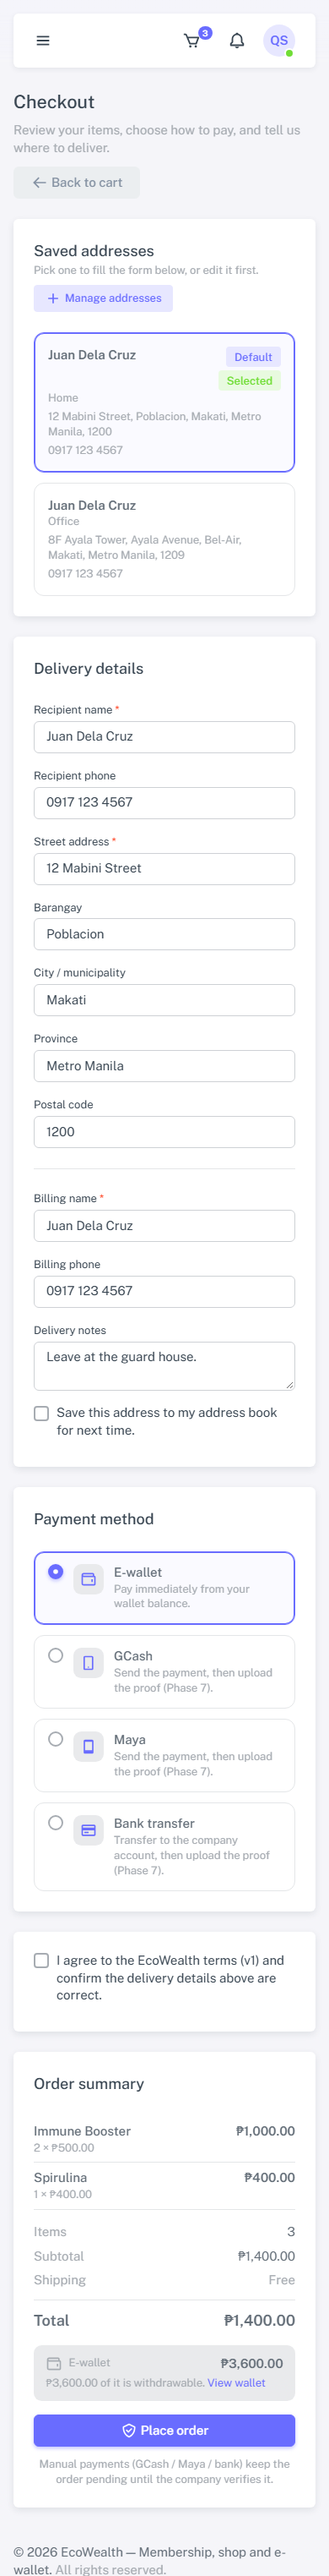
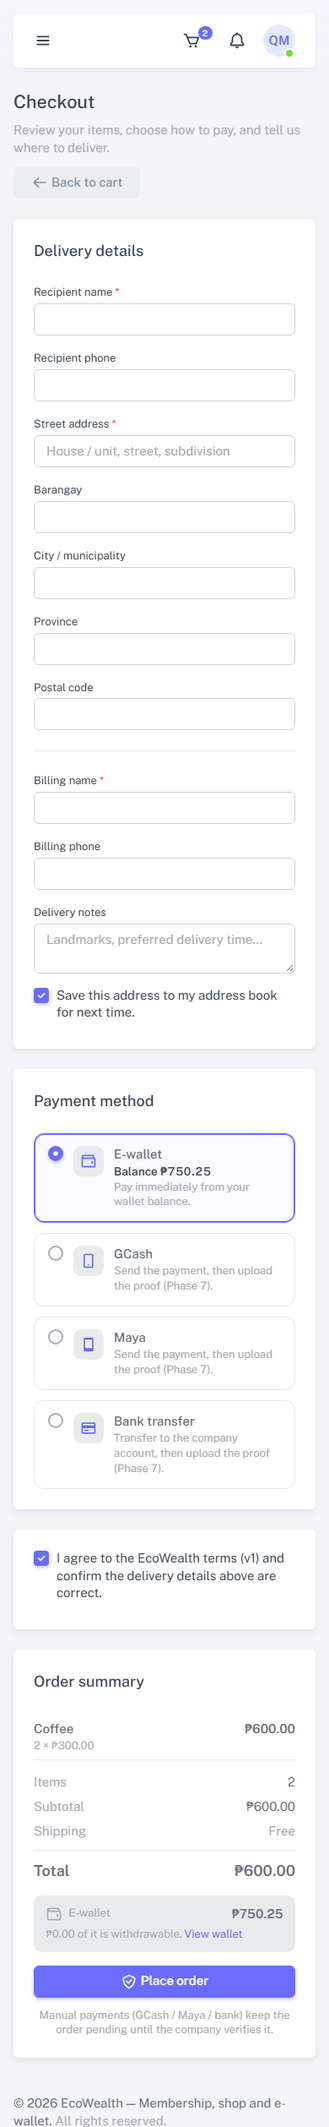
checkout: pre-tick terms, gate Place order, show e-wallet balance

diff --git a/system/public/assets/js/app-checkout.js b/system/public/assets/js/app-checkout.js
@@ -1,0 +1,32 @@
+/**
+ * EcoWealth — checkout behaviour (Phase 6)
+ * -------------------------------------------------
+ * The terms checkbox gates the Place order button, so a member cannot
+ * click a submit that the server would refuse. The server validation
+ * stays the source of truth; this is only the immediate visual gate.
+ */
+(function () {
+  'use strict';
+
+  var terms = document.getElementById('terms');
+  var button = document.getElementById('placeOrder');
+  var hint = document.querySelector('[data-terms-hint]');
+
+  if (!terms || !button) {
+    return;
+  }
+
+  function sync() {
+    var accepted = terms.checked;
+
+    button.disabled = !accepted;
+    button.setAttribute('aria-disabled', accepted ? 'false' : 'true');
+
+    if (hint) {
+      hint.classList.toggle('d-none', accepted);
+    }
+  }
+
+  terms.addEventListener('change', sync);
+  sync();
+})();

diff --git a/system/public/assets/css/orders.css b/system/public/assets/css/orders.css
@@ -96,6 +96,22 @@
   min-width: 0;
 }
 
+.checkout-payment-balance {
+  display: block;
+  font-size: 0.85rem;
+  font-weight: 600;
+  color: var(--bs-heading-color);
+  font-variant-numeric: tabular-nums;
+}
+
+.checkout-payment-balance.is-short {
+  color: var(--bs-danger);
+}
+
+.checkout-terms-hint {
+  color: var(--bs-danger);
+}
+
 /* ---------- Checkout summary ---------- */
 .checkout-summary {
   position: sticky;

diff --git a/system/tests/Cases/OrderViewTest.php b/system/tests/Cases/OrderViewTest.php
@@ -39,6 +39,13 @@ $sidebar = static function (string $html): string {
     return $end === false ? '' : substr($html, $start, $end - $start);
 };
 
+/** The opening tag of an element with the given id (for attribute checks). */
+$tag = static function (string $html, string $id, string $element = 'input'): string {
+    $pattern = '/<' . $element . '\b[^>]*\bid="' . preg_quote($id, '/') . '"[^>]*>/';
+
+    return preg_match($pattern, $html, $matches) === 1 ? $matches[0] : '';
+};
+
 $makeProduct = static function (array $overrides = []): int {
     return Product::save($overrides + [
         'name'   => 'Checkout Product ' . bin2hex(random_bytes(3)),
@@ -84,7 +91,7 @@ $placeOrder = static function (array $member, int $productId, int $quantity, arr
 };
 
 return [
-    'P6-T1 the checkout page carries items, payments, terms and the key' => function () use ($render, $makeProduct, $makeMember, $input): void {
+    'P6-T1 the checkout page carries items, payments, terms and the key' => function () use ($render, $tag, $makeProduct, $makeMember, $input): void {
         $member  = $makeMember();
         $userId  = (int) $member['id'];
         $product = $makeProduct(['name' => 'Checkout Coffee', 'price' => '300.00']);
@@ -107,6 +114,8 @@ return [
         $html  = $render('member', 'shop/checkout', [
             'page_title'      => 'Checkout',
             'current_nav'     => 'cart',
+            'page_css'        => ['assets/css/shop.css', 'assets/css/orders.css'],
+            'page_js'         => ['assets/js/app-checkout.js'],
             'state'           => $state,
             'addresses'       => $book->forUser($userId),
             'selected'        => $book->defaultFor($userId),
@@ -124,7 +133,7 @@ return [
             ],
             'wallet'          => ['balance' => 1000.0, 'withdrawable' => 1000.0],
             'payment_methods' => [
-                'ewallet' => ['label' => 'E-wallet', 'icon' => 'bx-wallet', 'hint' => 'Pay immediately from your wallet balance.', 'available' => true],
+                'ewallet' => ['label' => 'E-wallet', 'icon' => 'bx-wallet', 'balance' => 1000.0, 'hint' => 'Pay immediately from your wallet balance.', 'available' => true],
                 'gcash'   => ['label' => 'GCash', 'icon' => 'bx-mobile-alt', 'hint' => 'Send the payment, then upload the proof (Phase 7).', 'available' => true],
                 'maya'    => ['label' => 'Maya', 'icon' => 'bx-mobile', 'hint' => 'Send the payment, then upload the proof (Phase 7).', 'available' => true],
                 'bank'    => ['label' => 'Bank transfer', 'icon' => 'bx-building-bank', 'hint' => 'Transfer to the company account.', 'available' => true],
@@ -154,6 +163,16 @@ return [
         assert_contains('name="idempotency_key"', $html);
         assert_contains('value="checkout-key-123"', $html);
         assert_contains('name="save_address"', $html);
+        assert_contains('data-wallet-balance', $html, 'the e-wallet option shows the balance');
+        assert_contains(money(1000), $html);
+        assert_contains('app-checkout.js', $html);
+        assert_contains('checked', $tag($html, 'terms'), 'the terms start ticked');
+
+        $placeOrder = $tag($html, 'placeOrder', 'button');
+        assert_true($placeOrder !== '', 'the Place order button must render');
+        assert_not_contains('disabled', $placeOrder, 'the button starts enabled');
+
+        assert_contains('data-terms-hint', $html);
         assert_contains('Place order', $html);
         assert_contains('action="' . url('checkout') . '"', $html);
     },
@@ -170,6 +189,8 @@ return [
         $html  = $render('member', 'shop/checkout', [
             'page_title'      => 'Checkout',
             'current_nav'     => 'cart',
+            'page_css'        => ['assets/css/shop.css', 'assets/css/orders.css'],
+            'page_js'         => ['assets/js/app-checkout.js'],
             'state'           => $state,
             'addresses'       => [],
             'selected'        => null,
@@ -181,7 +202,7 @@ return [
             ],
             'wallet'          => ['balance' => 50.0, 'withdrawable' => 0.0],
             'payment_methods' => [
-                'ewallet' => ['label' => 'E-wallet', 'icon' => 'bx-wallet', 'hint' => 'Your balance is ' . money(50) . ' — not enough for ' . money(300) . '.', 'available' => false],
+                'ewallet' => ['label' => 'E-wallet', 'icon' => 'bx-wallet', 'balance' => 50.0, 'hint' => 'Not enough for this order — choose another method or top up.', 'available' => false],
                 'gcash'   => ['label' => 'GCash', 'icon' => 'bx-mobile-alt', 'hint' => 'Send the payment.', 'available' => true],
                 'maya'    => ['label' => 'Maya', 'icon' => 'bx-mobile', 'hint' => 'Send the payment.', 'available' => true],
                 'bank'    => ['label' => 'Bank transfer', 'icon' => 'bx-building-bank', 'hint' => 'Transfer.', 'available' => true],
@@ -190,14 +211,17 @@ return [
             'idempotency_key' => 'key-short',
         ]);
 
-        assert_contains('not enough for', $html);
+        assert_contains('data-wallet-balance', $html);
+        assert_contains('Balance ' . money(50), $html);
+        assert_contains('is-short', $html);
+        assert_contains('Not enough for this order', $html);
         assert_contains('disabled', $html);
         assert_contains('value="gcash"', $html);
         assert_contains('checked', $html, 'a manual method is preselected');
         assert_contains('Save this address to my address book', $html);
     },
 
-    'P6-T6 checkout errors render inline and keep the typed input' => function () use ($render, $makeProduct, $makeMember): void {
+    'P6-T6 checkout errors render inline and keep the typed input' => function () use ($render, $tag, $makeProduct, $makeMember): void {
         $member  = $makeMember();
         $userId  = (int) $member['id'];
         $product = $makeProduct();
@@ -224,6 +248,8 @@ return [
         $html  = $render('member', 'shop/checkout', [
             'page_title'      => 'Checkout',
             'current_nav'     => 'cart',
+            'page_css'        => ['assets/css/shop.css', 'assets/css/orders.css'],
+            'page_js'         => ['assets/js/app-checkout.js'],
             'state'           => $state,
             'addresses'       => [],
             'selected'        => null,
@@ -235,7 +261,7 @@ return [
             ],
             'wallet'          => ['balance' => 0.0, 'withdrawable' => 0.0],
             'payment_methods' => [
-                'ewallet' => ['label' => 'E-wallet', 'icon' => 'bx-wallet', 'hint' => 'Not enough.', 'available' => false],
+                'ewallet' => ['label' => 'E-wallet', 'icon' => 'bx-wallet', 'balance' => 0.0, 'hint' => 'Not enough for this order.', 'available' => false],
                 'gcash'   => ['label' => 'GCash', 'icon' => 'bx-mobile-alt', 'hint' => 'Send the payment.', 'available' => true],
             ],
             'terms_version'   => OrderService::TERMS_VERSION,
@@ -251,6 +277,22 @@ return [
         assert_contains('value="gcash"', $html);
         assert_contains('is-invalid', $html);
         assert_not_contains('value="Prefill"', $html, 'posted values beat the prefill');
+
+        /* The unticked terms survive the failed submit and gate the button. */
+        assert_not_contains('checked', $tag($html, 'terms'));
+        $placeOrder = $tag($html, 'placeOrder', 'button');
+        assert_true($placeOrder !== '', 'the Place order button must render');
+        assert_contains('disabled', $placeOrder);
+        assert_contains('Tick the terms above to place your order.', $html);
+    },
+
+    'P6-T6 the checkout script gates Place order on the terms checkbox' => function (): void {
+        $js = (string) file_get_contents(dirname(__DIR__, 2) . '/public/assets/js/app-checkout.js');
+
+        assert_contains('terms.checked', $js);
+        assert_contains('button.disabled = !accepted;', $js);
+        assert_contains("terms.addEventListener('change', sync);", $js);
+        assert_contains("hint.classList.toggle('d-none', accepted);", $js);
     },
 
     'P6-T9 the orders list renders rows, filters and the empty state' => function () use ($render, $makeProduct, $makeMember, $placeOrder): void {

diff --git a/system/app/views/shop/checkout.php b/system/app/views/shop/checkout.php
@@ -44,7 +44,9 @@ if (!isset($payment_methods[$selectedMethod]) || !$payment_methods[$selectedMeth
     }
 }
 
-$termsChecked = array_key_exists('terms', $posted) && (string) $posted['terms'] === '1';
+/* Terms are accepted by default; a failed submit keeps the unticked state
+ * so the member sees exactly what they need to fix. */
+$termsChecked = array_key_exists('terms', $posted) ? (string) $posted['terms'] === '1' : true;
 $saveAddressDefault = array_key_exists('save_address', $posted)
     ? (bool) $posted['save_address']
     : $addresses === [];
@@ -259,6 +261,11 @@ $subtotal   = (float) ($state['totals']['subtotal'] ?? 0);
                               <span class="checkout-payment-icon"><i class="icon-base <?= e(icon_class($method['icon'])) ?>"></i></span>
                               <span class="checkout-payment-text">
                                 <span class="d-block fw-medium"><?= e($method['label']) ?></span>
+<?php if (isset($method['balance'])): ?>
+                                <span class="checkout-payment-balance<?= $method['available'] ? '' : ' is-short' ?>" data-wallet-balance>
+                                  Balance <?= e(money((float) $method['balance'])) ?>
+                                </span>
+<?php endif; ?>
                                 <span class="d-block small text-body-secondary"><?= e($method['hint']) ?></span>
                               </span>
                             </label>
@@ -332,9 +339,18 @@ $subtotal   = (float) ($state['totals']['subtotal'] ?? 0);
                           </div>
                         </div>
 
-                        <button type="submit" class="btn btn-primary w-100 mt-4" data-checkout-submit>
+                        <button
+                          type="submit"
+                          class="btn btn-primary w-100 mt-4"
+                          id="placeOrder"
+                          data-checkout-submit
+                          <?= $termsChecked ? '' : 'disabled' ?>
+                        >
                           <i class="icon-base bx bx-check-shield me-1"></i> Place order
                         </button>
+                        <p class="checkout-terms-hint small text-center mt-2 mb-0<?= $termsChecked ? ' d-none' : '' ?>" data-terms-hint>
+                          Tick the terms above to place your order.
+                        </p>
                         <p class="text-body-secondary small text-center mt-3 mb-0">
                           Manual payments (GCash / Maya / bank) keep the order pending until the company verifies it.
                         </p>

diff --git a/system/app/Controllers/CheckoutController.php b/system/app/Controllers/CheckoutController.php
@@ -60,12 +60,13 @@ final class CheckoutController
 
         $methods = [
             'ewallet' => [
-                'label'       => 'E-wallet',
-                'icon'        => 'bx-wallet',
-                'hint'        => $balance >= $total
+                'label'     => 'E-wallet',
+                'icon'      => 'bx-wallet',
+                'balance'   => $balance,
+                'hint'      => $balance >= $total
                     ? 'Pay immediately from your wallet balance.'
-                    : 'Your balance is ' . money($balance) . ' — not enough for ' . money($total) . '.',
-                'available'   => $balance >= $total,
+                    : 'Not enough for this order — choose another method or top up.',
+                'available' => $balance >= $total,
             ],
             'gcash' => [
                 'label'     => 'GCash',
@@ -93,6 +94,7 @@ final class CheckoutController
             'page_title'      => 'Checkout',
             'current_nav'     => $isAdmin ? 'admin.storefront' : 'cart',
             'page_css'        => ['assets/css/shop.css', 'assets/css/orders.css'],
+            'page_js'         => ['assets/js/app-checkout.js'],
             'state'           => $state,
             'addresses'       => $addresses,
             'selected'        => $selected,

diff --git a/docs/qa/phase-6-orders.md b/docs/qa/phase-6-orders.md
@@ -76,9 +76,10 @@ address book, missing-terms and cancellation paths.
 - **Order summary**: Coffee ×2 with its line total, items count, subtotal, **Shipping Free**, and a bold total
   equal to the subtotal. No shipping or service fee is added.
 - **Delivery details** prefilled from the member's default address (or from the profile name on a first order).
-- **Payment method**: **E-wallet** selected when the balance covers the total; GCash, Maya and Bank
-  transfer are available too.
-- **Terms** checkbox unchecked; **Place order** at the bottom of the summary.
+- **Payment method**: **E-wallet** shows **Balance ₱…** and is selected when the balance covers the total;
+  GCash, Maya and Bank transfer are available too.
+- **Terms** checkbox is **ticked by default** and **Place order** is enabled. Unticking the terms greys the
+  button out, shows **“Tick the terms above to place your order.”**, and ticking it again re-enables it.
 - The page source (DevTools → Elements) contains **`name="idempotency_key"`** with a 32-character value.
 
 ### QA6-02 — The address book saves and prefills checkout
@@ -107,28 +108,31 @@ address book, missing-terms and cancellation paths.
   fields contain `QA Tester`, `12 Mabini Street`, `Poblacion`, `Makati`, `Metro Manila`, `1200`.
 - Clicking the other address card (if you saved a second one) reloads checkout with that address selected.
 
-### QA6-03 — A missing term or address is refused without losing the input
+### QA6-03 — A missing address is refused and the terms gate the button
 
 | | |
 |---|---|
-| **Why it matters** | Validation must be field-level and the typed address must survive the round trip. |
+| **Why it matters** | Validation must be field-level, the typed address must survive the round trip, and an unticked terms box must not look submittable. |
 | **Where** | `/checkout` |
-| **Evidence** | `QA6-03-validation.png` |
+| **Evidence** | `QA6-03-validation.png`, `QA6-03-terms-gate.png` |
 | **Result** | ☐ Pass ☐ Fail ☐ Blocked — Notes: |
 
 **Steps**
 
-1. On checkout, clear **Recipient name** and **Street address**, and leave **Terms** unticked.
+1. On checkout, clear **Recipient name** and **Street address** (leave the **Terms** ticked).
 2. Click **Place order**.
 3. Look at the form that comes back.
+4. Untick **Terms**, then tick it again.
 
 **Expected**
 
 - A red flash: **“Please fix the highlighted checkout fields.”**
-- The page returns to checkout with **Recipient name is required.**, **Delivery address is required.** and
-  **Please accept the terms to place your order.** shown at the fields.
-- The fields keep what you typed (for example the billing name), and the idempotency key is unchanged.
+- The page returns to checkout with **Recipient name is required.** and **Delivery address is required.**
+  shown at the fields; the typed values (for example the billing name) and the idempotency key are kept.
 - No order appears in `/orders`; the cart still has its lines.
+- Unticking the terms disables **Place order** and shows **“Tick the terms above to place your order.”**;
+  ticking it again re-enables the button. (The server also refuses a missing-terms submit; the automated
+  suite covers that rule.)
 
 ---
 
@@ -257,7 +261,8 @@ address book, missing-terms and cancellation paths.
 
 **Expected**
 
-- **E-wallet** is greyed out/disabled, with the hint **“Your balance is ₱0.00 — not enough for ₱…”**.
+- **E-wallet** is greyed out/disabled, shows **Balance ₱0.00** in red, with the hint
+  **“Not enough for this order — choose another method or top up.”**
 - A manual method (GCash/Maya/Bank) is preselected.
 - Placing the order manually works and leaves the wallet at ₱0.00.
 

diff --git a/docs/phase-log.md b/docs/phase-log.md
@@ -1169,6 +1169,42 @@ the natural “my account” destination.
   `/ecowealth/system/profile`; admin identity behaved the same, kept `#layout-menu` with **My profile** active
   and never showed **My orders**; no console errors.
 
+---
+
+## Post-Phase 6 — Checkout: terms pre-ticked, gated Place order, e-wallet balance
+
+**Date:** 2026-11-05 · **Status:** complete · **Tests:** 242 PHP cases, 83 smoke checks
+
+### Changes
+
+- **`app/views/shop/checkout.php`**
+  - The terms checkbox is **ticked by default**. A failed submit keeps it unticked so the member sees exactly
+    what needs fixing.
+  - **Place order** now has `id="placeOrder"` and is rendered `disabled` when the terms are unticked; a red hint
+    **“Tick the terms above to place your order.”** appears until they are accepted.
+  - The e-wallet payment option shows **Balance ₱…** (red when it cannot cover the order) from the balance the
+    controller already read.
+- **`public/assets/js/app-checkout.js`** (new, loaded through `page_js`) — toggles the button and hint on the
+  terms `change` event. The server still validates the terms, so this is only the immediate gate.
+- **`app/Controllers/CheckoutController.php`** — passes the e-wallet `balance` and loads the new script.
+- **`public/assets/css/orders.css`** — balance and hint styles.
+- **`tests/Cases/OrderViewTest.php`** — asserts the terms start checked, the button starts enabled, the balance
+  renders, and the unticked state disables the button and shows the hint; a script-source case covers the
+  toggle.
+- **QA documentation** — QA6-01, QA6-03 and the sign-off row describe the pre-ticked terms, the disabled button
+  and the balance line.
+- **Evidence** — refreshed `docs/qa/evidence/phase-6/final-checkout.png` and `final-checkout-mobile.png`; new
+  `final-checkout-terms-gate.png`.
+
+### Verification
+
+- `php tests\run.php` — **242 / 242**.
+- `powershell -NoProfile -File tests\smoke.ps1` — **83 / 83**.
+- Headless Chrome as `QA_Member_01` (`/checkout`): terms ticked, button enabled, **Balance ₱750.25** shown in the
+  e-wallet option; unticking the terms disabled the button and revealed the hint; ticking them again enabled it;
+  no console errors.
+
+
 
 
 

diff --git a/system/README.md b/system/README.md
@@ -339,6 +339,9 @@ Maintenance mode is `maintenance_mode=1`: guests see a branded **503** with
   re-checks `stock − reserved`, snapshots each line, writes the order and its events, debits the e-wallet
   inside the same unit and converts the cart. Any failure rolls the whole attempt back — no order, no
   reservation, no debit, cart intact.
+- **The checkout page** pre-selects the e-wallet only when its balance covers the total and always shows that
+  balance inside the e-wallet option. The terms are ticked by default; unticking them disables **Place order**
+  (`app-checkout.js`), and the server still validates the checkbox.
 - **The server owns the money.** Posted prices and totals are never read; the order total is the catalogue
   subtotal (plus the stored shipping fee, currently 0.00 until Phase 8).
 - **Idempotent placement.** The checkout form carries a hidden key; `shop_orders.idempotency_key` is UNIQUE

diff --git a/docs/qa/sign-off-sheet.md b/docs/qa/sign-off-sheet.md
@@ -219,9 +219,9 @@ Document: [phase-6-orders.md](phase-6-orders.md)
 
 | Check | What it verifies | Result | Evidence file |
 |---|---|---|---|
-| QA6-01 | Checkout shows cart, address and payments | ☐ Pass ☐ Fail ☐ Blocked | |
+| QA6-01 | Checkout shows cart, address, payments and balance | ☐ Pass ☐ Fail ☐ Blocked | |
 | QA6-02 | Address book saves and prefills checkout | ☐ Pass ☐ Fail ☐ Blocked | |
-| QA6-03 | Missing term/address refused, input kept | ☐ Pass ☐ Fail ☐ Blocked | |
+| QA6-03 | Missing address refused; terms gate the button | ☐ Pass ☐ Fail ☐ Blocked | |
 | QA6-04 | E-wallet order is paid and debited once | ☐ Pass ☐ Fail ☐ Blocked | |
 | QA6-05 | Manual order stays pending with instructions | ☐ Pass ☐ Fail ☐ Blocked | |
 | QA6-06 | Cancelling an unpaid order releases stock | ☐ Pass ☐ Fail ☐ Blocked | |
